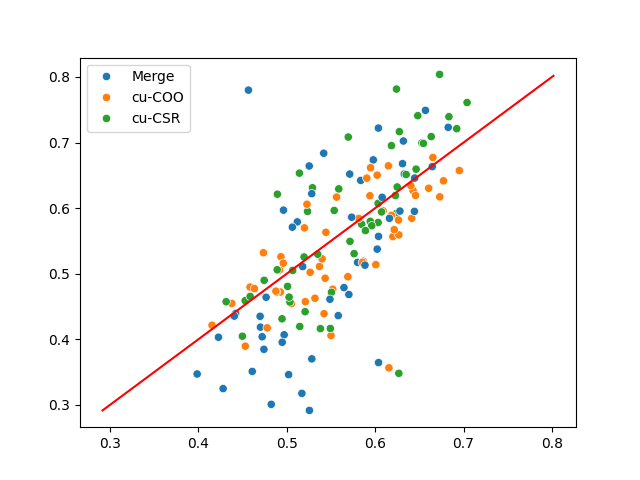
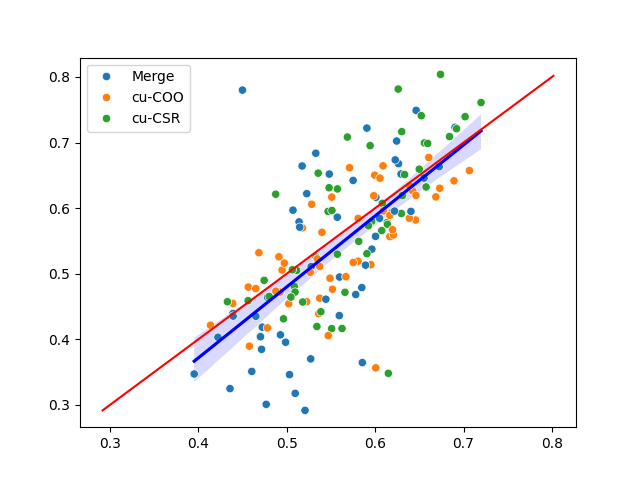
Model trained on 100 epochs

diff --git a/Performance_predictors/MLP/globals.py b/Performance_predictors/MLP/globals.py
@@ -1,6 +1,6 @@
 import torch
 
-nb_epochs = 50
+nb_epochs = 100
 lr = 0.01
 loss_fn = torch.nn.MSELoss()
 activation_fn = torch.nn.Sigmoid()
